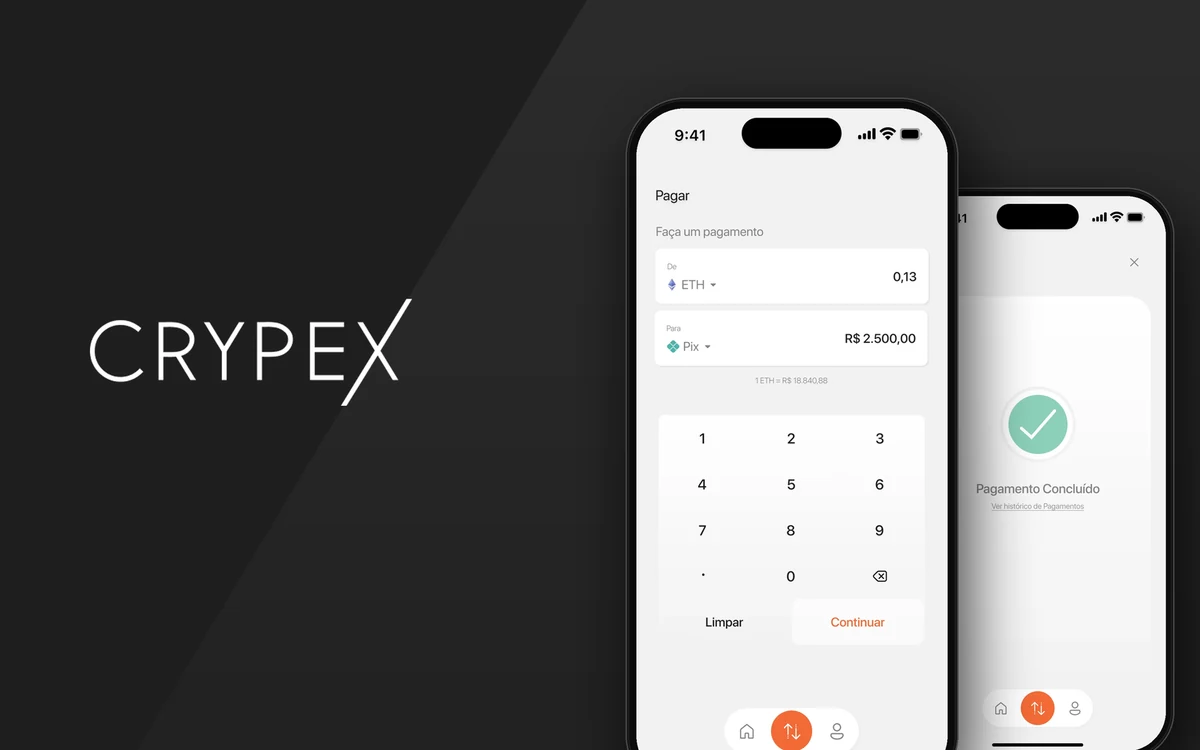
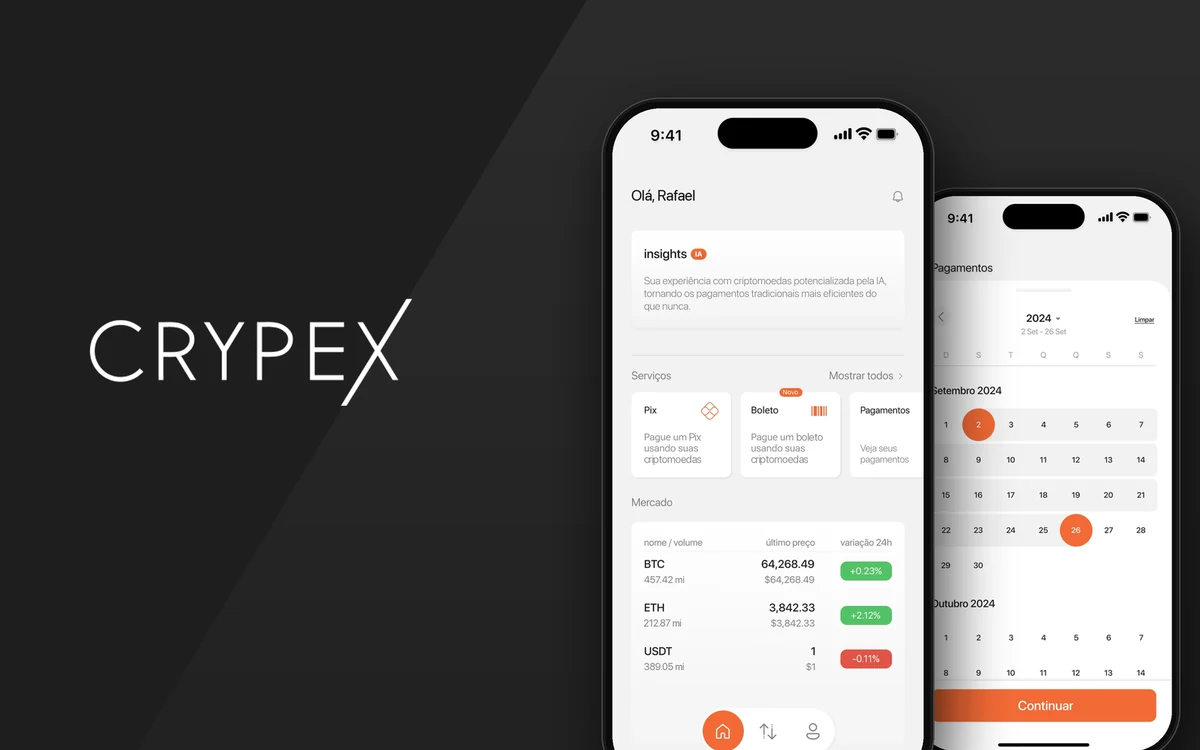
Crypex card: richer screens on the cover
Home (AI insights, services, live market) in front and the payments
calendar behind, in place of the Pay keypad and the payment-done screen.

diff --git a/index.html b/index.html
@@ -264,7 +264,7 @@
               <span class="frame__label"><b>Case 02</b> Crypto payments <span class="dim">iOS · 390</span></span>
               <span class="frame__handles"><span></span></span>
               <div class="case__thumb">
-                <img class="crypex" src="assets/img/crypex/cover-card.webp?v=2" width="1200" height="750" alt="" loading="lazy">
+                <img class="crypex" src="assets/img/crypex/cover-card.webp?v=3" width="1200" height="750" alt="" loading="lazy">
               </div>
               <div class="case__body">
                 <div>
